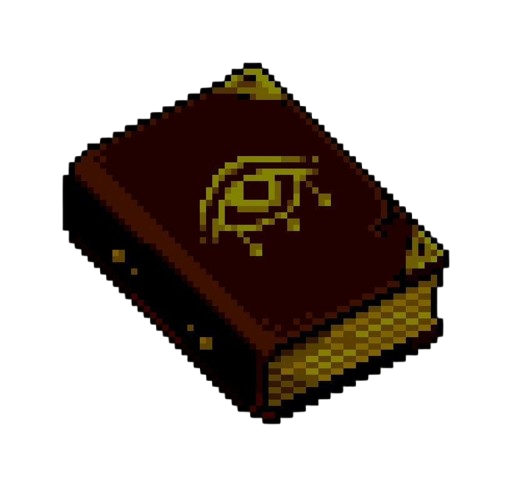
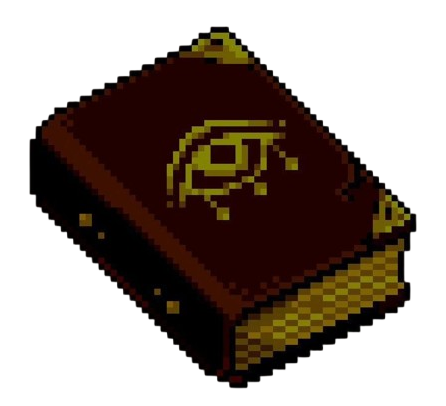
Potions & Tomes

Changed region(s): [[0.0583, 0.0591, 0.9327, 0.9754]]

diff --git a/tomes.html b/tomes.html
@@ -3,23 +3,80 @@
     <head>
         <meta charset="UTF-8">
         <meta name="viewport" content="width=device-width, initial-scale=1.0">
-        <title>Tomes | Brew &amp; Bindings</title>
+        <title>Tomes & Grimoires | Brew & Bindings</title>
         <link rel="stylesheet" href="css/style.css">
     </head>
 
     <body>
         <header class="site-header">
             <a href="index.html" class="brand">
-                <img src="images/logo.jpg" alt="Brew &amp; Bindings logo" class="logo">
-                <span class="brand-name">Brew &amp; Bindings</span>
+                <img src="images/logo.jpg" alt="Brew & Bindings logo" class="logo">
+                <span class="brand-name">Brew & Bindings</span>
             </a>
             <nav class="site-nav" aria-label="main">
                 <a href="index.html">Home</a>
                 <a href="potions.html">Potions</a>
-                <a href="tomes.html">Tomes &amp; Grimoires</a>
-                <a href="workshop.html" aria-current="page">Workshop &amp; Events</a>
+                <a href="tomes.html">Tomes & Grimoires</a>
+                <a href="workshop.html" aria-current="page">Workshop & Events</a>
                 <a href="story.html">Our Story</a>
                 <a href="journal.html">Journal</a>
-                <a href="contact.html">Contact &amp; Owl-post</a>
+                <a href="contact.html">Contact & Owl-post</a>
             </nav>
         </header>
+
+        <main>
+            <h1>Tomes & Grimoires</h1>
+            <p class="lead">Spellbooks and field guides, plus rare editions we find, repair and rebind.</p>
+
+            <h2>Books</h2>
+            <p class="sub">In print, always in stock.</p>
+            <div class="grid">
+                <article class="card">
+                    <h3>The Apprentice's Almanac</h3>
+                    <img src="images/Apprentice almanac.png" alt="Apprentice Almanac" height="100" width="100"  class="center-img">
+                    <p>Follow a full year of beginner spells, arranged by season, so you always know which charm suits the month. Each entry has simple steps and a short note on what to expect.</p>
+                    <span class="price">₱650</span>
+                </article>
+                <article class="card">
+                    <h3>Bindings & Margins</h3>
+                    <img src="images/Bindings and margin.png" alt="Bindings & Margins" height="100" width="100"  class="center-img">
+                    <p>This book teaches you how spellwork is written down and why a careful hand makes a spell stronger. Its wide margins are left blank on purpose, so you can add your own notes and discoveries.</p>
+                    <span class="price">₱540</span>
+                </article>
+                <article class="card">
+                    <h3>A Field Guide to Night Herbs</h3>
+                    <img src="images/night herbs op2.png" alt="Night Herbs" height="100" width="100"  class="center-img">
+                    <p>Learn where each herb grows, when to pick it under the moon, and how to dry it so it keeps its strength. Clear illustrations help you tell the real plant from the lookalikes.</p>
+                    <span class="price">₱720</span>
+                </article>
+            </div>
+
+                <section class="section">
+                <h2>Rare editions</h2>
+                <p class="sub">One copy each. When it's gone, it's gone.</p>
+                <div class="grid">
+                    <article class="card">
+                        <span class="tag rare">Rare edition</span>
+                        <h3>Annotated Almanac, first printing</h3>
+                        <img src="images/Annotated almanac.png" alt="Annotated almanac" height="100" width="100"  class="center-img">
+                        <p>A first printing with a hand-repaired spine that has been carefully restored to keep the book sturdy. The original margin notes are still intact, adding a bit of history to every page.</p>
+                        <span class="price">₱4,800</span>
+                    </article>
+                    <article class="card">
+                        <span class="tag rare">Rare edition</span>
+                        <h3>The Cauldron Ledger</h3>
+                        <img src="images/Cauldron Ledger.png" alt="Cauldron Ledger" height="120" width="120"  class="center-img">
+                        <p>A brewer's record book for tracking batches, notes and results. It has been rebound in wine-red cloth, giving an older volume a fresh and durable cover.</p>
+                        <span class="price">₱3,900</span>
+                    </article>
+                </div>
+            </section>
+        </main>
+
+        <footer class="site-footer">
+            <p>&copy; 2026 Brew & Bindings. All rights reserved.<br>
+                Author: Paul Vincent C. Clavido
+            </p>
+        </footer>
+    </body>
+</html>

diff --git a/story.html b/story.html
@@ -10,23 +10,23 @@
     <body>
         <header class="site-header">
             <a href="index.html" class="brand">
-                <img src="images/logo.jpg" alt="Brew &amp; Bindings logo" class="logo">
-                <span class="brand-name">Brew &amp; Bindings</span>
+                <img src="images/logo.jpg" alt="Brew & Bindings logo" class="logo">
+                <span class="brand-name">Brew & Bindings</span>
             </a>
             <nav class="site-nav" aria-label="main">
                 <a href="index.html">Home</a>
                 <a href="potions.html">Potions</a>
-                <a href="tomes.html">Tomes &amp; Grimoires</a>
-                <a href="workshop.html">Workshop &amp; Events</a>
+                <a href="tomes.html">Tomes & Grimoires</a>
+                <a href="workshop.html">Workshop & Events</a>
                 <a href="story.html" aria-current="page">Our Story</a>
                 <a href="journal.html">Journal</a>
-                <a href="contact.html">Contact &amp; Owl-post</a>
+                <a href="contact.html">Contact & Owl-post</a>
             </nav>
         </header>
 
         <main>
             <h1>Our story</h1>
-            <p class="story-text">Brew &amp; Bindings began with two shelves: one of potions, one of books. We wanted a shop where you could learn a craft and take something home that was made with care.</p>
+            <p class="story-text">Brew & Bindings began with two shelves: one of potions, one of books. We wanted a shop where you could learn a craft and take something home that was made with care.</p>
             <p class="story-text">Everything we sell is made in small batches, by people who can tell you how it was made.</p>
             <div class="values">
                 <div><h3>Made by hand</h3><p>Potions are brewed and books are sewn in our own workshop.</p></div>
@@ -36,7 +36,7 @@
         </main>
 
         <footer class="site-footer">
-            <p>&copy; 2026 Brew &amp; Bindings. All rights reserved.<br>
+            <p>&copy; 2026 Brew & Bindings. All rights reserved.<br>
                 Author: Paul Vincent C. Clavido
             </p>
         </footer>

diff --git a/potions.html b/potions.html
@@ -3,24 +3,24 @@
     <head>
         <meta charset="UTF-8">
         <meta name="viewport" content="width=device-width, initial-scale=1.0">
-        <title>Potions | Brew &amp; Bindings</title>
+        <title>Potions | Brew & Bindings</title>
         <link rel="stylesheet" href="css/style.css">
     </head>
 
     <body>
         <header class="site-header">
             <a href="index.html" class="brand">
-                <img src="images/logo.jpg" alt="Brew &amp; Bindings logo" class="logo">
-                <span class="brand-name">Brew &amp; Bindings</span>
+                <img src="images/logo.jpg" alt="Brew & Bindings logo" class="logo">
+                <span class="brand-name">Brew & Bindings</span>
             </a>
             <nav class="site-nav" aria-label="main">
                 <a href="index.html">Home</a>
                 <a href="potions.html">Potions</a>
-                <a href="tomes.html">Tomes &amp; Grimoires</a>
-                <a href="workshop.html" aria-current="page">Workshop &amp; Events</a>
+                <a href="tomes.html">Tomes & Grimoires</a>
+                <a href="workshop.html" aria-current="page">Workshop & Events</a>
                 <a href="story.html">Our Story</a>
                 <a href="journal.html">Journal</a>
-                <a href="contact.html">Contact &amp; Owl-post</a>
+                <a href="contact.html">Contact & Owl-post</a>
             </nav>
         </header>
 
@@ -74,3 +74,12 @@
             </section>
                 </div>
             </section>
+        </main>
+
+        <footer class="site-footer">
+            <p>&copy; 2026 Brew & Bindings. All rights reserved.<br>
+                Author: Paul Vincent C. Clavido
+            </p>
+        </footer>
+    </body>
+</html>

diff --git a/journal.html b/journal.html
@@ -3,24 +3,24 @@
     <head>
         <meta charset="UTF-8">
         <meta name="viewport" content="width=device-width, initial-scale=1.0">
-        <title>Journal | Brew &amp; Bindings</title>
+        <title>Journal | Brew & Bindings</title>
         <link rel="stylesheet" href="css/style.css">
     </head>
 
     <body>
         <header class="site-header">
             <a href="index.html" class="brand">
-                <img src="images/logo.jpg" alt="Brew &amp; Bindings logo" class="logo">
-                <span class="brand-name">Brew &amp; Bindings</span>
+                <img src="images/logo.jpg" alt="Brew & Bindings logo" class="logo">
+                <span class="brand-name">Brew & Bindings</span>
             </a>
             <nav class="site-nav" aria-label="main">
                 <a href="index.html">Home</a>
                 <a href="potions.html">Potions</a>
-                <a href="tomes.html">Tomes &amp; Grimoires</a>
-                <a href="workshop.html">Workshop &amp; Events</a>
+                <a href="tomes.html">Tomes & Grimoires</a>
+                <a href="workshop.html">Workshop & Events</a>
                 <a href="story.html">Our Story</a>
                 <a href="journal.html" aria-current="page">Journal</a>
-                <a href="contact.html">Contact &amp; Owl-post</a>
+                <a href="contact.html">Contact & Owl-post</a>
             </nav>
         </header>
 
@@ -50,7 +50,7 @@
         </main>
 
         <footer class="site-footer">
-            <p>&copy; 2026 Brew &amp; Bindings. All rights reserved.<br>
+            <p>&copy; 2026 Brew & Bindings. All rights reserved.<br>
                 Author: Paul Vincent C. Clavido
             </p>
         </footer>

diff --git a/contact.html b/contact.html
@@ -3,23 +3,23 @@
     <head>
         <meta charset="UTF-8">
         <meta name="viewport" content="width=device-width, initial-scale=1.0">
-        <title>Contact &amp; Owl-post | Brew &amp; Bindings</title>
+        <title>Contact & Owl-post | Brew & Bindings</title>
         <link rel="stylesheet" href="css/style.css">
     </head>
 
     <body>
         <header class="site-header">
             <a href="index.html" class="brand">
-                <img src="images/logo.jpg" alt="Brew &amp; Bindings logo" class="logo">
-                <span class="brand-name">Brew &amp; Bindings</span>
+                <img src="images/logo.jpg" alt="Brew & Bindings logo" class="logo">
+                <span class="brand-name">Brew & Bindings</span>
             </a>
             <nav class="site-nav" aria-label="main">
                 <a href="index.html">Home</a>
                 <a href="potions.html">Potions</a>
-                <a href="tomes.html">Tomes &amp; Grimoires</a>
-                <a href="workshop.html" aria-current="page">Workshop &amp; Events</a>
+                <a href="tomes.html">Tomes & Grimoires</a>
+                <a href="workshop.html" aria-current="page">Workshop & Events</a>
                 <a href="story.html">Our Story</a>
                 <a href="journal.html">Journal</a>
-                <a href="contact.html">Contact &amp; Owl-post</a>
+                <a href="contact.html">Contact & Owl-post</a>
             </nav>
         </header>

diff --git a/workshop.html b/workshop.html
@@ -3,23 +3,23 @@
     <head>
         <meta charset="UTF-8">
         <meta name="viewport" content="width=device-width, initial-scale=1.0">
-        <title>Workshop &amp; Events | Brew &amp; Bindings</title>
+        <title>Workshop & Events | Brew & Bindings</title>
         <link rel="stylesheet" href="css/style.css">
     </head>
 
     <body>
         <header class="site-header">
             <a href="index.html" class="brand">
-                <img src="images/logo.jpg" alt="Brew &amp; Bindings logo" class="logo">
-                <span class="brand-name">Brew &amp; Bindings</span>
+                <img src="images/logo.jpg" alt="Brew & Bindings logo" class="logo">
+                <span class="brand-name">Brew & Bindings</span>
             </a>
             <nav class="site-nav" aria-label="main">
                 <a href="index.html">Home</a>
                 <a href="potions.html">Potions</a>
-                <a href="tomes.html">Tomes &amp; Grimoires</a>
-                <a href="workshop.html" aria-current="page">Workshop &amp; Events</a>
+                <a href="tomes.html">Tomes & Grimoires</a>
+                <a href="workshop.html" aria-current="page">Workshop & Events</a>
                 <a href="story.html">Our Story</a>
                 <a href="journal.html">Journal</a>
-                <a href="contact.html">Contact &amp; Owl-post</a>
+                <a href="contact.html">Contact & Owl-post</a>
             </nav>
         </header>

diff --git a/css/style.css b/css/style.css
@@ -27,6 +27,16 @@ body {
     line-height: 1.6
 }
 
+a {
+    
+    color: var(--wine);
+}
+
+a:hover {
+    color: var(--ember);
+}
+
+
 main {
     max-width: 1100px;
     margin: 0 auto;
@@ -56,19 +66,17 @@ h3 {
     margin: 0 0 4px;
 }
 
+.lead {
+    max-width: 46ch;
+    font-size: 20.8px;
+    margin: 0 0 28px;
+}
+
 .sub {
     margin: 0 0 20px;
     font-style: italic;
 }
 
-a {
-    
-    color: var(--wine);
-}
-
-a:hover {
-    color: var(--ember);
-}
 
 .site-header {
     display: flex;
@@ -92,6 +100,10 @@ a:hover {
     font-weight: 700;
     color: var(--cream);
     text-decoration: none;
+}
+
+.brand:hover {
+    color: var(--amber);
 }
 
 .logo {
@@ -189,6 +201,43 @@ a:hover {
     font-weight: 600;
     font-size: 19.2px;
     color: var(--wine);
+}
+
+.tag {
+    align-self: flex-start;
+    padding: 0 10px;
+    border-radius: 3px;
+    background: var(--green);
+    color: var(--cream);
+    font-size: 13.6px;
+    font-weight: 600;
+}
+
+.tag.rare {
+    background: var(--wine);
+    border: 1px solid var(--gold);
+}
+
+.panel {
+    background: var(--paper);
+    border: 3px double var(--gold);
+    border-radius: 6px;
+    padding: 24px;
+}
+
+.panel p {
+    margin: 0 0 12px;
+}
+
+.panel:target {
+    box-shadow: 0 0 24px rgba(201, 162, 39, .7);
+}
+
+.two-col {
+    display: grid;
+    grid-template-columns: 1fr 1fr;
+    gap: 40px;
+    align-items: start;
 }
 
 .post {

diff --git a/index.html b/index.html
@@ -28,12 +28,8 @@
 
         
         <main>
-            <h1>
-                Every brew deserves its book.
-            </h1>
-            <p>
-                Small batch and carefully chosen spellbooks, delivered by owl-post.
-            </p>
+            <h1>Every brew deserves its book.</h1>
+            <p>Small batch and carefully chosen spellbooks, delivered by owl-post.</p>
 
             <div class="btn-row">
                 <a class="btn" href="potions.html">Shop potions</a>
